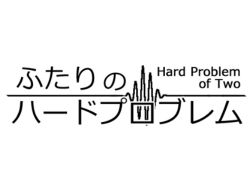
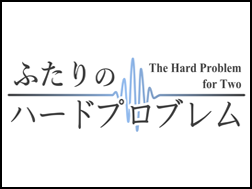
ハドプレロゴリニューアル

Changed region(s): [[0.0, 0.0, 1.0, 1.0]]

diff --git a/link.html b/link.html
@@ -17,8 +17,8 @@
   <table class="linktop">
     <tbody>
       <tr>
-        <td class="banner"><a href="../" target="_blank"><img src="banner/mayuragicenter_banner.png"></a></td>
-        <td class="banner"><a href="hardproblem" target="_blank"><img src="banner/hpot_banner.png"></a></td>
+        <td class="banner"><a href="../" target="_blank"><img src="banner/mayuragicenter_logo.png"></a></td>
+        <td class="banner"><a href="hardproblem" target="_blank"><img src="banner/hardproblem_logo.png"></a></td>
       </tr>
     </tbody>
   </table>
@@ -53,7 +53,10 @@
       <tr>
         <td class="banner"><a href="http://ja.wikipedia.org/wiki/%E3%83%A1%E3%82%A4%E3%83%B3%E3%83%9A%E3%83%BC%E3%82%B8" target="_blank"><img src="banner/Lemon_wiki_banner.jpg"></a></td>
         <td class="banner"><a href="http://en.wiktionary.org/wiki/Wiktionary:Main_Page" target="_blank"><img src="banner/LeoDaV-Banner_234x60.jpg"></a></td>
-       <td class="nobanner"><a href="http://homepage3.nifty.com/jgrammar/ja/index.htm" target="_blank"><span class="pbanner"><span class="shorten">コラム統計計算文法考</span></span></a></td>
+        <td class="nobanner"><a href="http://homepage3.nifty.com/jgrammar/ja/index.htm" target="_blank"><span class="pbanner">コラム統計計算文法考</span></a></td>
+      </tr>
+      <tr>
+        <td class="nobanner"><a href="http://www.weblio.jp/" target="_blank"><span class="pbanner">Weblio辞書</span></a></td>
       </tr>
     </tbody>
   </table>

diff --git a/hardproblem/components.js b/hardproblem/components.js
@@ -1,6 +1,6 @@
 Vue.component('hpot-main-header', {
   className: 'header hpot-header hpot-main-header',
-  template: '<a href="../hardproblem"><img src="../img/hpot_logo.jpg" /></a>'
+  template: '<a href="../hardproblem"><img src="../img/hardproblem_logo.png" /></a>'
           + '<div class="hr"></div>'
           + '<p class="word">'
           + '  機械になりたい、って思った。'
@@ -12,7 +12,7 @@ Vue.component('hpot-main-header', {
 
 Vue.component('hpot-page-header', {
   className: 'header hpot-header hpot-page-header',
-  template: '<a href="../hardproblem"><img src="../img/hpot_logo.jpg" /></a>'
+  template: '<a href="../hardproblem"><img src="../img/hardproblem_logo.png" /></a>'
           + '<div v-component="hpot-section-index"></div>'
           + '<div class="hr"></div>'
 });

diff --git a/novel.html b/novel.html
@@ -20,7 +20,7 @@
   <table class="novel">
     <tbody>
       <tr class="noveltitle">
-        <td colspan="4"><a href="hardproblem/" target="_blank"><img src="img/hpot_logo.jpg" alt="ふたりのハードプロブレム"></a></td>
+        <td colspan="4"><a href="hardproblem/" target="_blank"><img src="img/hardproblem_logo.png" alt="ふたりのハードプロブレム"></a></td>
       </tr>
       <tr class="noveldata1">
         <td>Genre</a></td>

diff --git a/hardproblem/index.html b/hardproblem/index.html
@@ -22,7 +22,7 @@
   <link rel="stylesheet" type="text/css" href="portrait.css" />
   <link rel="stylesheet" type="text/css" href="landscape.css" />
   <title>ふたりのハードプロブレム</title>
-  <link rel="shortcut icon" href="../img/icon_hpot.png" type="image/png">
+  <link rel="shortcut icon" href="../img/icon_hardproblem.png" type="image/png">
 </head>
 <body id="page">
   <div v-component="hpot-main-header"></div>

diff --git a/hardproblem/0.html b/hardproblem/0.html
@@ -6,7 +6,7 @@
   <link rel="stylesheet" type="text/css" href="portrait.css" />
   <link rel="stylesheet" type="text/css" href="landscape.css" />
   <title>ふたりのハードプロブレム</title>
-  <link rel="shortcut icon" href="../img/icon_hpot.png" type="image/png">
+  <link rel="shortcut icon" href="../img/icon_hardproblem.png" type="image/png">
 </head>
 <body id="page">
   <div v-component="hpot-page-header"></div>

diff --git a/hardproblem/1-01.html b/hardproblem/1-01.html
@@ -6,7 +6,7 @@
   <link rel="stylesheet" type="text/css" href="portrait.css" />
   <link rel="stylesheet" type="text/css" href="landscape.css" />
   <title>ふたりのハードプロブレム</title>
-  <link rel="shortcut icon" href="../img/icon_hpot.png" type="image/png">
+  <link rel="shortcut icon" href="../img/icon_hardproblem.png" type="image/png">
 </head>
 <body id="page">
   <div v-component="hpot-page-header"></div>

diff --git a/hardproblem/1-02.html b/hardproblem/1-02.html
@@ -6,7 +6,7 @@
   <link rel="stylesheet" type="text/css" href="portrait.css" />
   <link rel="stylesheet" type="text/css" href="landscape.css" />
   <title>ふたりのハードプロブレム</title>
-  <link rel="shortcut icon" href="../img/icon_hpot.png" type="image/png">
+  <link rel="shortcut icon" href="../img/icon_hardproblem.png" type="image/png">
 </head>
 <body id="page">
   <div v-component="hpot-page-header"></div>

diff --git a/hardproblem/1-03.html b/hardproblem/1-03.html
@@ -6,7 +6,7 @@
   <link rel="stylesheet" type="text/css" href="portrait.css" />
   <link rel="stylesheet" type="text/css" href="landscape.css" />
   <title>ふたりのハードプロブレム</title>
-  <link rel="shortcut icon" href="../img/icon_hpot.png" type="image/png">
+  <link rel="shortcut icon" href="../img/icon_hardproblem.png" type="image/png">
 </head>
 <body id="page">
   <div v-component="hpot-page-header"></div>

diff --git a/hardproblem/1-04.html b/hardproblem/1-04.html
@@ -6,7 +6,7 @@
   <link rel="stylesheet" type="text/css" href="portrait.css" />
   <link rel="stylesheet" type="text/css" href="landscape.css" />
   <title>ふたりのハードプロブレム</title>
-  <link rel="shortcut icon" href="../img/icon_hpot.png" type="image/png">
+  <link rel="shortcut icon" href="../img/icon_hardproblem.png" type="image/png">
 </head>
 <body id="page">
   <div v-component="hpot-page-header"></div>

diff --git a/hardproblem/1-05.html b/hardproblem/1-05.html
@@ -6,7 +6,7 @@
   <link rel="stylesheet" type="text/css" href="portrait.css" />
   <link rel="stylesheet" type="text/css" href="landscape.css" />
   <title>ふたりのハードプロブレム</title>
-  <link rel="shortcut icon" href="../img/icon_hpot.png" type="image/png">
+  <link rel="shortcut icon" href="../img/icon_hardproblem.png" type="image/png">
 </head>
 <body id="page">
   <div v-component="hpot-page-header"></div>

diff --git a/hardproblem/1-06.html b/hardproblem/1-06.html
@@ -6,7 +6,7 @@
   <link rel="stylesheet" type="text/css" href="portrait.css" />
   <link rel="stylesheet" type="text/css" href="landscape.css" />
   <title>ふたりのハードプロブレム</title>
-  <link rel="shortcut icon" href="../img/icon_hpot.png" type="image/png">
+  <link rel="shortcut icon" href="../img/icon_hardproblem.png" type="image/png">
 </head>
 <body id="page">
   <div v-component="hpot-page-header"></div>

diff --git a/hardproblem/1-07.html b/hardproblem/1-07.html
@@ -6,7 +6,7 @@
   <link rel="stylesheet" type="text/css" href="portrait.css" />
   <link rel="stylesheet" type="text/css" href="landscape.css" />
   <title>ふたりのハードプロブレム</title>
-  <link rel="shortcut icon" href="../img/icon_hpot.png" type="image/png">
+  <link rel="shortcut icon" href="../img/icon_hardproblem.png" type="image/png">
 </head>
 <body id="page">
   <div v-component="hpot-page-header"></div>
